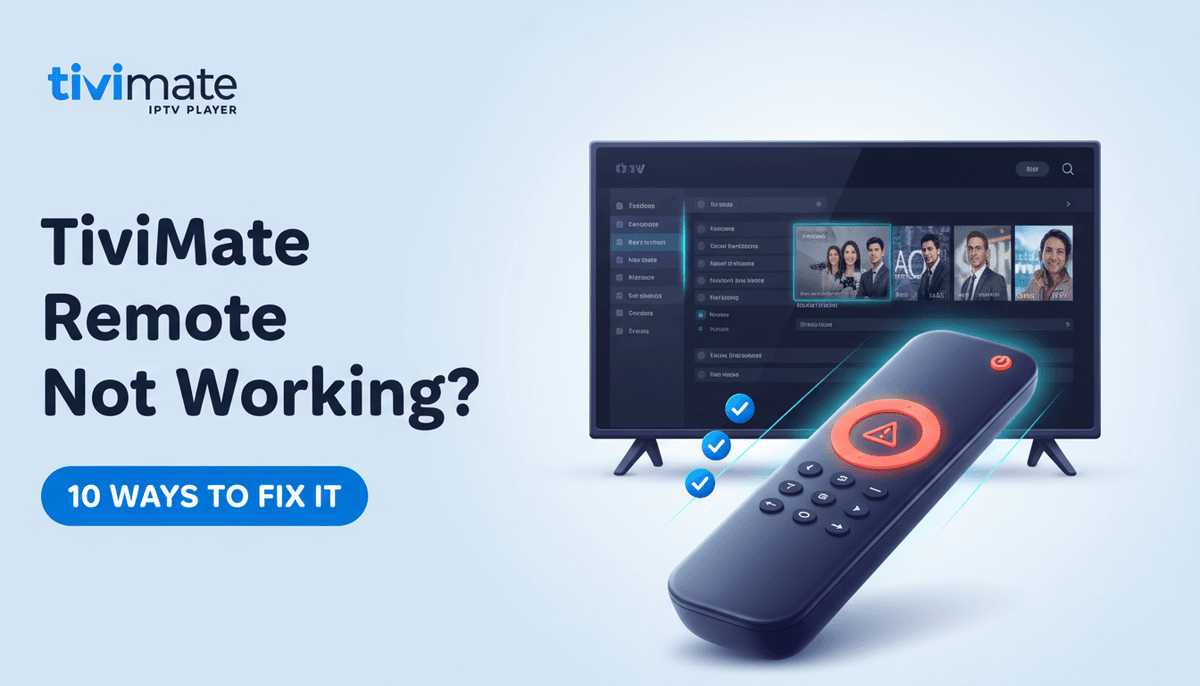
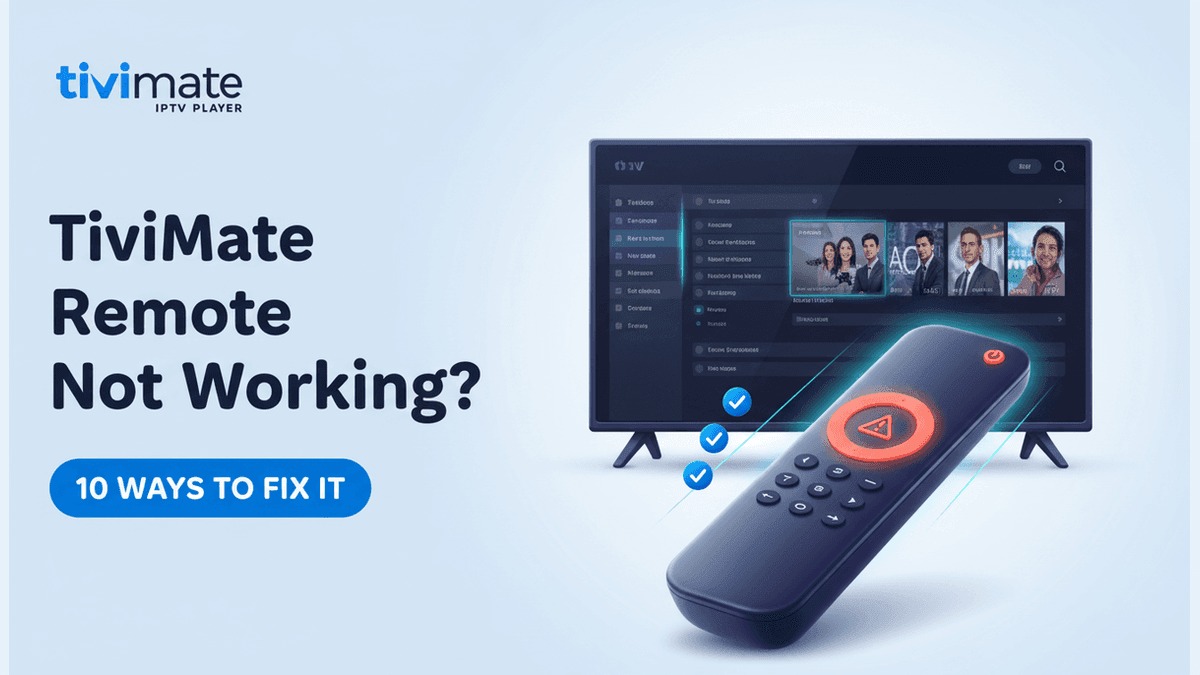
Fix blog card image aspect ratio to 16:9 and normalize thumbnails.

diff --git a/app/globals.css b/app/globals.css
@@ -5215,14 +5215,15 @@ main > :first-child.telvis-article {
 .telvis-blog-card-media {
   display: block;
   overflow: hidden;
-  aspect-ratio: 16 / 10;
-  background: rgba(10, 37, 64, 0.08);
+  aspect-ratio: 16 / 9;
+  background: #e8f1f8;
 }
 
 .telvis-blog-card-image {
   width: 100%;
   height: 100%;
-  object-fit: cover;
+  object-fit: contain;
+  object-position: center;
   display: block;
   transition: transform 280ms ease;
 }
@@ -5534,14 +5535,15 @@ main > :first-child.telvis-article {
   display: block;
   overflow: hidden;
   border-radius: 12px;
-  aspect-ratio: 16 / 10;
-  background: rgba(10, 37, 64, 0.06);
+  aspect-ratio: 16 / 9;
+  background: #e8f1f8;
 }
 
 .telvis-article-related-image {
   width: 100%;
   height: 100%;
-  object-fit: cover;
+  object-fit: contain;
+  object-position: center;
   display: block;
 }
 

diff --git a/components/blog/BlogArticle.tsx b/components/blog/BlogArticle.tsx
@@ -240,7 +240,7 @@ export function BlogArticle({ post }: BlogArticleProps) {
                         src={related.image}
                         alt={related.imageAlt}
                         width={640}
-                        height={400}
+                        height={360}
                         className="telvis-article-related-image"
                         sizes="(max-width: 767px) 100vw, 280px"
                       />

diff --git a/components/blog/BlogPostsSection.tsx b/components/blog/BlogPostsSection.tsx
@@ -33,7 +33,7 @@ export function BlogPostsSection() {
                     src={card.image}
                     alt={card.imageAlt}
                     width={800}
-                    height={500}
+                    height={450}
                     className="telvis-blog-card-image"
                     sizes="(max-width: 767px) 100vw, (max-width: 1100px) 50vw, 380px"
                   />
